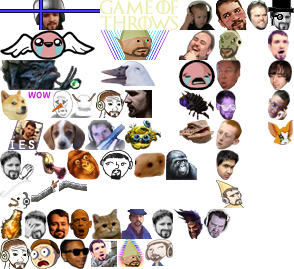
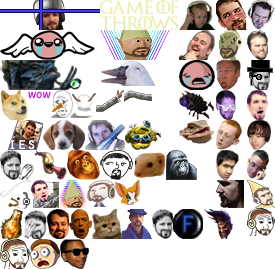
emotes: new F by Cracksi, non-final version

diff --git a/static/chat/css/style.min.css b/static/chat/css/style.min.css
@@ -1,1 +1,1 @@
-.nano{position:relative;width:100%;height:100%;overflow:hidden}.nano>.nano-content{position:absolute;overflow:scroll;overflow-x:hidden;top:0;right:0;bottom:0;left:0}.nano>.nano-content:focus{outline:thin dotted}.nano>.nano-content::-webkit-scrollbar{display:none}.has-scrollbar>.nano-content::-webkit-scrollbar{display:block}.nano>.nano-pane{background:rgba(0,0,0,0.25);position:absolute;width:10px;right:0;top:0;bottom:0;visibility:hidden\9;opacity:.01;-webkit-transition:.2s;-moz-transition:.2s;-o-transition:.2s;transition:.2s;-moz-border-radius:5px;-webkit-border-radius:5px;border-radius:5px}.nano>.nano-pane>.nano-slider{background:#444;background:rgba(0,0,0,0.5);position:relative;margin:0 1px;-moz-border-radius:3px;-webkit-border-radius:3px;border-radius:3px}.nano:hover>.nano-pane,.nano-pane.active,.nano-pane.flashed{visibility:visible\9;opacity:.99}.nano>.nano-pane>.nano-slider{background:#eee}.nano>.nano-pane{background:transparent;width:8px;right:4px}.serif{font-family:"Trebuchet MS",sans-serif}.chat{position:relative;width:100%;height:100%;min-width:300px}.chat-output-frame{margin-bottom:35px;height:auto;width:100%;position:absolute;overflow:hidden;top:0;bottom:0;left:0;right:0}.chat-output{width:100%;height:100%}.chat-output .chat-lines{-webkit-backface-visibility:hidden;-webkit-perspective:1000;outline:0 !important}.chat-lines>div{clear:both;word-wrap:break-word;padding:3px 20px 3px 5px}.chat-lines>div .continue{user-select:none;color:#444}.chat-lines>div i.continue{user-select:none;color:#222}.chat-lines a.user{font-weight:bold;cursor:pointer;font-family:"Trebuchet MS",sans-serif}.chat-lines hr{margin:8px 0}.chat-lines .msg.emote{font-style:italic}.chat-input{width:100%;position:absolute;bottom:0}#chat-top-frame{position:absolute;top:0;left:0;right:0}#chat-bottom-frame{position:absolute;bottom:35px;left:0;right:0}.chat-input>div{margin:5px 0 0 0;background:#2e2e2e}.chat-tools-wrap{position:absolute;right:0;bottom:0;margin:0;user-select:none;-moz-user-select:none;-webkit-user-select:none}.chat-input-wrap{margin:0;margin-right:60px}#user-mute-form,#user-ban-form{margin-top:10px;display:none}#user-mute-form #banTimeLength{width:150px}.chat-input-control{padding:3px 0 0 5px;height:28px;margin:1px;border-radius:3px}.chat-input-control .input{background:none;resize:none;margin:0;padding:0;width:100%;border:0;border-radius:0;box-shadow:none;box-sizing:border-box}.chat-input-control .input:focus{box-shadow:none}.chat-tools-wrap>div{height:30px;overflow:hidden}.chat-tools-wrap .iconbtn{font-size:20px;cursor:pointer;width:30px;height:28px;line-height:28px;float:left;display:block;text-align:center;color:#555;position:relative}.chat-tools-wrap .iconbtn:hover{color:white}.chat-tools-wrap .iconbtn.active{color:white}.chat-tools-wrap .chat-pm-count{font-family:"Lucida Console",Monaco,monospace;text-decoration:none;font-size:10px;color:white;background-color:#b91010;line-height:10px;padding:3px;position:absolute;border-radius:8px;top:-5px;left:0;display:block;text-shadow:1px 1px 0 black;text-align:center;box-shadow:1px 1px 0 rgba(0,0,0,0.1);min-width:15px}@-webkit-keyframes flash{0%,50%,100%{opacity:1}25%,75%{opacity:0}}@keyframes flash{0%,50%,100%{opacity:1}25%,75%{opacity:0}}.chat-pm-count.flash{-webkit-animation-name:flash;-webkit-animation-duration:1.5s;-webkit-animation-direction:alternate;-webkit-animation-timing-function:linear;-webkit-animation-delay:0s;-webkit-animation-iteration-count:infinite;-moz-animation-name:flash;-moz-animation-duration:1.5s;-moz-animation-direction:alternate;-moz-animation-timing-function:linear;-moz-animation-delay:0s;-moz-animation-iteration-count:infinite;animation-name:flash;animation-duration:1.5s;animation-iteration-count:infinite}.chat .chat-lines i[class^="icon-"]{width:16px;line-height:16px;height:16px;margin:0;opacity:1;display:inline-block;vertical-align:middle}.chat-input-control input,.chat-lines{font-family:Helvetica,"Trebuchet MS",Verdana,sans-serif;font-size:13px;line-height:1.5em}.chat-lines time{font-size:11px}.chat-lines a.externallink{color:#02c2ff}.chat-lines a.externallink:visited{color:#a66be5}.chat-lines a.externallink:hover,.chat-lines a.externallink:focus{color:#08c}.chat-lines a.nsfw-link{border-bottom:1px dashed red}.chat-lines a.nsfl-link{border-bottom:1px dashed #fff000}.chat .chat-lines time,.chat .user-msg i{display:none !important}.chat.chat-time .chat-lines time,.chat.chat-icons .user-msg i,.chat-lines i[class*='icon-subscriber']{display:inline-block !important}.chat-theme-dark{background:#080808;border-radius:0}.chat-theme-dark .chat-input-wrap{border:none}.chat-theme-dark .chat-lines time{color:#414141}.chat-theme-dark .chat-lines>div.highlight time,.chat-lines>div.highlight .continue{color:#838383}.chat-theme-dark .chat-lines>.command-msg,.chat-theme-dark .chat-lines>.error-msg,.chat-theme-dark .chat-lines>.status-msg,.chat-theme-dark .chat-lines>.ui-msg,.chat-theme-dark .chat-lines>.own-msg,.chat-theme-dark .chat-lines>.highlight{color:#dedede}.chat-theme-dark .chat-lines>.broadcast-msg .msg{color:#edea12}.chat-theme-dark .chat-lines>.broadcast-msg{background:rgba(255,255,21,0.1)}.chat-theme-dark .chat-lines>.own-msg{background-color:rgba(255,255,255,0.05)}.chat-theme-dark .chat-lines>.highlight{background-color:rgba(0,150,255,0.25)}.chat-theme-dark .chat-lines>.command-msg,.chat-theme-dark .chat-lines>.own-msg,.chat-theme-dark .chat-lines>.highlight .msg,.chat-theme-dark .chat-lines>.broadcast-msg .msg{text-shadow:1px 1px 0 rgba(0,0,0,0.5)}.chat-theme-dark .chat-input-control{background:#090909;border:none}.chat-theme-dark .chat-input-control input{color:#9e9e9e;background:#090909;text-shadow:none;outline:none}.chat-theme-dark .chat-lines>.private-message{background-color:#212121;margin:5px 15px 5px 10px;padding:10px;position:relative;border-radius:3px}.chat-theme-dark .chat-lines>.private-message .speech-arrow{top:15px;left:-5px;position:absolute;width:0;height:0;border-style:solid;border-width:5px 5px 5px 0;border-color:transparent #212121 transparent transparent}.chat-theme-dark .chat-lines>.private-message .message-actions{font-size:90%}.chat-theme-dark input:input-placeholder{color:#222}.chat-theme-dark input::-webkit-input-placeholder{color:#222}.chat-theme-dark input:-moz-placeholder{color:#222}.chat-theme-dark input::-moz-placeholder{color:#222}.chat-theme-dark input:-ms-input-placeholder{color:#222}.chat-theme-dark .nano>.pane{background:rgba(0,0,0,0.3);width:8px;right:5px;top:5px;bottom:0}.chat-theme-dark .nano>.pane>.slider{background:#999}.chat-theme-dark .nano>.pane>.slider:hover,.chat-theme-dark .nano>.pane.active>.slider{background:#eee}.chat.focus-user .chat-lines>.user-msg{opacity:.3}.chat.focus-user .chat-lines>.user-msg.focused,.chat.focus-user .chat-lines>.user-msg.highlight{opacity:1}.chat .alert{margin-bottom:0;padding-top:4px;padding-bottom:4px;font-size:12px}.hint-popup,.user-tools{width:100%;top:-5px;left:0}.hint-popup>div,.user-tools>div,#chat-broadcasts>div{border-radius:4px;margin:5px 20px 5px 5px}.user-tools .user-tools-user{font-family:"Trebuchet MS",sans-serif}#chat-broadcasts .chat-emote{display:none}.hint-popup>div{box-shadow:0 2px 6px rgba(0,0,0,0.9);padding:0}.hint-popup a:hover{cursor:pointer;color:#6aa7f9}.hint-popup .hidehint,.hint-popup .nexthint{top:0;position:relative;float:right;right:-23px;line-height:20px;-webkit-touch-callout:none;-webkit-user-select:none;-khtml-user-select:none;-moz-user-select:none;-ms-user-select:none;user-select:none;color:#ccc}.hint-popup .hidehint{right:-27px}.hint-popup .hidehint:hover,.hint-popup .nexthint:hover{color:#111}.hint-popup .alert{padding-right:35px}.user-tools-wrap{margin-left:-5px}.user-tools-wrap>a{margin:0 5px}.chat-menu,.user-tools,.hint-popup{display:none;opacity:0}.chat-menu.active,.user-tools.active,.hint-popup.active{display:block;opacity:1}.chat-menu,.user-tools,.hint-popup{font-size:12px}.chat-menu{position:absolute;right:20px;bottom:-5px;width:240px}.chat-menu.active{bottom:0}.chat-menu h5,.user-tools h5{text-shadow:-1px -1px 0 rgba(0,0,0,0.25);user-select:none;-moz-user-select:none;-webkit-user-select:none;background:#4f4f4f;background:linear-gradient(to bottom, #4f4f4f 0, #2e2e2e 100%);border-bottom:1px solid #121212;margin:0;line-height:20px;display:block;padding:5px 15px 5px 10px;border-radius:4px 4px 0 0}.chat-menu .toolbar{width:100%;position:absolute;top:-31px;left:0}.chat-menu li,.chat-menu label{font-size:12px}.chat-menu label{font-weight:normal;margin:0 0 5px 0}.chat-menu label:hover{color:white}.chat-menu .list-wrap,.chat-menu .list-wrap .scrollable{max-height:330px;font-size:.9em}.chat-menu .list-wrap,.user-tools>div{box-shadow:0 2px 6px rgba(0,0,0,0.9);border-radius:0 0 4px 4px;background:rgba(25,25,25,0.9);padding:0}.chat-menu .list-wrap{margin-top:auto}.chat-menu ul,.user-tools .tools{padding:0 10px;margin:10px 0}.chat-menu ul>li:first-child h5{margin-top:0}.chat-menu ul li{text-overflow:ellipsis;overflow:hidden}#chat-user-list ul li{line-height:18px}#chat-user-list h6:first-child{margin-top:10px}#chat-user-list h6{font-weight:bold;margin:0 0 5px 5px}#chat-user-list hr{margin:5px 0}#chat-user-list ul{margin:0}#chat-user-list .user{cursor:pointer;font-family:"Trebuchet MS",sans-serif}.user-tools a#unignoreuser,.user-tools.user-ignored a#ignoreuser{display:none}.user-tools.user-ignored a#unignoreuser{display:inline-block}.chat-menu .nano>.pane{width:8px;right:3px;top:3px;bottom:3px}#chat-private-messages{width:270px}#chat-private-messages #chat-pm-message{padding:15px}#chat-private-messages #chat-pm-message p{font-size:14px;text-align:center}.chat-login-msg{display:inline-block;width:100%;padding:0 0 0 5px;line-height:30px;color:rgba(255,255,255,0.5);text-shadow:-1px -1px 0 rgba(0,0,0,0.25)}.chat-lines .emotecount{color:white;text-shadow:1px 1px 0 rgba(0,0,0,0.9);font-size:10px;line-height:10px;border-radius:10px;padding:3px 6px;margin:0 0 0 5px;background:#191919}.chat-lines .emotecount{text-shadow:none;animation:emotecount 600ms 1;-moz-animation:emotecount 600ms 1;-webkit-animation:emotecount 600ms 1}@keyframes emotecount{from{color:black;background-color:white}to{color:white;background-color:#333}}@-webkit-keyframes emotecount{from{color:black;background-color:white}to{color:white;background-color:#333}}.chat-lines .emotecount.x5>span{font-size:12px}.chat-lines .emotecount.x10>span{font-size:16px}.chat-lines .emotecount.x20>span{font-size:25px;vertical-align:middle}.chat-lines .emotecount.x30>span{font-size:35px;vertical-align:middle}.chat-lines .emotecount.x50>span{font-size:40px;vertical-align:middle}.chat a.user{color:#cacaca}.chat a.user:hover{color:#fafafa}.chat a.subscriber{color:#488ce7}.chat a.subscriber:hover{color:#6aa7f9}.chat a.flair3{color:#0060ff;text-shadow:1px 1px 0 black}.chat a.flair3:hover{color:#6aa7f9}.chat a.flair8{color:#a427d6;text-shadow:1px 1px 0 black}.chat a.flair8:hover{color:#e564f4}.chat a.vip{color:#4db524}.chat a.vip:hover{color:#4db524}.chat a.bot{color:#e79015}.chat a.bot:hover{color:#e79015}.chat a.admin{color:#b91010}.chat a.admin:hover{color:#f00}.chat .greentext{color:#6ca528}@keyframes hop{0%{transform:translateY(0)}5%{transform:translateY(2px)}10%{transform:translateY(-13px)}50%{transform:translateY(-15px)}70%{transform:translateY(-13px)}80%{transform:translateY(-5px)}95%{transform:translateY(0)}100%{transform:translateY(0)}}.hop{animation:hop 700ms linear 5}.chat-emote{display:inline-block;position:relative;top:10px;margin:0 2px;overflow:hidden;text-indent:-90000px;vertical-align:middle}.chat-emote.chat-emote-OverRustle{animation:rustle 100ms 7;-webkit-animation:rustle 100ms 7}.chat-emote.chat-emote-OverRustle:hover{animation:rustle1 100ms infinite;-webkit-animation:rustle1 100ms infinite}@keyframes rustle{from{left:0}to{left:2px}}@-webkit-keyframes rustle{from{left:0}to{left:2px}}@keyframes rustle1{from{left:0}to{left:2px}}@-webkit-keyframes rustle1{from{left:0}to{left:2px}}.chat-emote.chat-emote-AYYYLMAO,.chat-emote.chat-emote-AngelThump,.chat-emote.chat-emote-Abathur,.chat-emote.chat-emote-GameOfThrows,.chat-emote.chat-emote-DANKMEMES,.chat-emote.chat-emote-DuckerZ,.chat-emote.chat-emote-SoDoge,.chat-emote.chat-emote-SoSad,.chat-emote.chat-emote-LIES,.chat-emote.chat-emote-FrankerZ,.chat-emote.chat-emote-SOTRIGGERED,.chat-emote.chat-emote-Heimerdonger,.chat-emote.chat-emote-FeedNathan,.chat-emote.chat-emote-LUL,.chat-emote.chat-emote-BibleThump,.chat-emote.chat-emote-INFESTINY,.chat-emote.chat-emote-Hhhehhehe,.chat-emote.chat-emote-Klappa,.chat-emote.chat-emote-SURPRISE,.chat-emote.chat-emote-OverRustle,.chat-emote.chat-emote-LeRuse,.chat-emote.chat-emote-FerretLOL,.chat-emote.chat-emote-NoTears,.chat-emote.chat-emote-MASTERB8,.chat-emote.chat-emote-DestiSenpaii,.chat-emote.chat-emote-YEE,.chat-emote.chat-emote-WhoahDude,.chat-emote.chat-emote-WORTH,.chat-emote.chat-emote-UWOTM8,.chat-emote.chat-emote-TooSpicy,.chat-emote.chat-emote-Sippy,.chat-emote.chat-emote-OhKrappa,.chat-emote.chat-emote-Nappa,.chat-emote.chat-emote-NOTMYTEMPO,.chat-emote.chat-emote-MotherFuckinGame,.chat-emote.chat-emote-MLADY,.chat-emote.chat-emote-Kappa,.chat-emote.chat-emote-Dravewin,.chat-emote.chat-emote-Disgustiny,.chat-emote.chat-emote-DatGeoff,.chat-emote.chat-emote-DappaKappa,.chat-emote.chat-emote-DaFeels,.chat-emote.chat-emote-DURRSTINY,.chat-emote.chat-emote-DAFUK,.chat-emote.chat-emote-CallChad,.chat-emote.chat-emote-CallCatz,.chat-emote.chat-emote-BasedGod,.chat-emote.chat-emote-nathanParty,.chat-emote.chat-emote-nathanFeels,.chat-emote.chat-emote-nathanFather,.chat-emote.chat-emote-nathanDubs3,.chat-emote.chat-emote-nathanDubs2,.chat-emote.chat-emote-nathanDubs1,.chat-emote.chat-emote-nathanDank,.chat-emote.chat-emote-nathanDad,.chat-emote.chat-emote-FIDGETLOL{background-image:url('../img/emoticons.png');background-repeat:no-repeat}.chat-emote.chat-emote-AYYYLMAO{background-position:0 0;width:100px;height:30px;margin-top:-30px}.chat-emote.chat-emote-AngelThump{background-position:0 -30px;width:95px;height:30px;margin-top:-30px}.chat-emote.chat-emote-Abathur{background-position:0 -60px;width:82px;height:30px;margin-top:-30px}.chat-emote.chat-emote-GameOfThrows{background-position:-100px 0;width:79px;height:30px;margin-top:-30px}.chat-emote.chat-emote-DANKMEMES{background-position:-100px -30px;width:70px;height:30px;margin-top:-30px}.chat-emote.chat-emote-DuckerZ{background-position:-100px -60px;width:56px;height:26px;margin-top:-26px}.chat-emote.chat-emote-SoDoge{background-position:0 -90px;width:51px;height:30px;margin-top:-30px}.chat-emote.chat-emote-SoSad{background-position:-51px -90px;width:45px;height:28px;margin-top:-28px}.chat-emote.chat-emote-LIES{background-position:0 -120px;width:43px;height:30px;margin-top:-30px}.chat-emote.chat-emote-FrankerZ{background-position:-43px -120px;width:42px;height:30px;margin-top:-30px}.chat-emote.chat-emote-SOTRIGGERED{background-position:-85px -120px;width:40px;height:30px;margin-top:-30px}.chat-emote.chat-emote-Heimerdonger{background-position:-125px -120px;width:37px;height:30px;margin-top:-30px}.chat-emote.chat-emote-FeedNathan{background-position:-179px 0;width:37px;height:30px;margin-top:-30px}.chat-emote.chat-emote-LUL{background-position:-179px -30px;width:36px;height:30px;margin-top:-30px}.chat-emote.chat-emote-BibleThump{background-position:-179px -60px;width:36px;height:30px;margin-top:-30px}.chat-emote.chat-emote-INFESTINY{background-position:-179px -90px;width:35px;height:30px;margin-top:-30px}.chat-emote.chat-emote-Hhhehhehe{background-position:-179px -120px;width:35px;height:24px;margin-top:-24px}.chat-emote.chat-emote-Klappa{background-position:0 -150px;width:34px;height:30px;margin-top:-30px}.chat-emote.chat-emote-SURPRISE{background-position:-34px -150px;width:33px;height:30px;margin-top:-30px}.chat-emote.chat-emote-OverRustle{background-position:-67px -150px;width:33px;height:30px;margin-top:-30px}.chat-emote.chat-emote-LeRuse{background-position:-100px -150px;width:33px;height:30px;margin-top:-30px}.chat-emote.chat-emote-FerretLOL{background-position:-133px -150px;width:33px;height:30px;margin-top:-30px}.chat-emote.chat-emote-NoTears{background-position:-166px -150px;width:31px;height:30px;margin-top:-30px}.chat-emote.chat-emote-MASTERB8{background-position:0 -180px;width:31px;height:29px;margin-top:-29px}.chat-emote.chat-emote-DestiSenpaii{background-position:-216px 0;width:31px;height:30px;margin-top:-30px}.chat-emote.chat-emote-YEE{background-position:-216px -30px;width:27px;height:30px;margin-top:-30px}.chat-emote.chat-emote-WhoahDude{background-position:-216px -60px;width:25px;height:30px;margin-top:-30px}.chat-emote.chat-emote-WORTH{background-position:-216px -90px;width:20px;height:30px;margin-top:-30px}.chat-emote.chat-emote-UWOTM8{background-position:-216px -120px;width:26px;height:30px;margin-top:-30px}.chat-emote.chat-emote-TooSpicy{background-position:-216px -150px;width:23px;height:30px;margin-top:-30px}.chat-emote.chat-emote-Sippy{background-position:0 -209px;width:24px;height:30px;margin-top:-30px}.chat-emote.chat-emote-OhKrappa{background-position:-24px -209px;width:23px;height:30px;margin-top:-30px}.chat-emote.chat-emote-Nappa{background-position:-47px -209px;width:22px;height:30px;margin-top:-30px}.chat-emote.chat-emote-NOTMYTEMPO{background-position:-69px -209px;width:23px;height:30px;margin-top:-30px}.chat-emote.chat-emote-MotherFuckinGame{background-position:-92px -209px;width:30px;height:30px;margin-top:-30px}.chat-emote.chat-emote-MLADY{background-position:-122px -209px;width:30px;height:30px;margin-top:-30px}.chat-emote.chat-emote-Kappa{background-position:-152px -209px;width:21px;height:30px;margin-top:-30px}.chat-emote.chat-emote-Dravewin{background-position:-173px -209px;width:30px;height:30px;margin-top:-30px}.chat-emote.chat-emote-Disgustiny{background-position:-203px -209px;width:28px;height:30px;margin-top:-30px}.chat-emote.chat-emote-DatGeoff{background-position:-247px 0;width:21px;height:30px;margin-top:-30px}.chat-emote.chat-emote-DappaKappa{background-position:-268px 0;width:26px;height:30px;margin-top:-30px}.chat-emote.chat-emote-DaFeels{background-position:0 -239px;width:30px;height:30px;margin-top:-30px}.chat-emote.chat-emote-DURRSTINY{background-position:-268px -30px;width:21px;height:30px;margin-top:-30px}.chat-emote.chat-emote-DAFUK{background-position:-30px -239px;width:30px;height:30px;margin-top:-30px}.chat-emote.chat-emote-CallChad{background-position:-268px -60px;width:24px;height:30px;margin-top:-30px}.chat-emote.chat-emote-CallCatz{background-position:-268px -90px;width:22px;height:30px;margin-top:-30px}.chat-emote.chat-emote-BasedGod{background-position:-60px -239px;width:29px;height:30px;margin-top:-30px}.chat-emote.chat-emote-nathanParty{background-position:-216px -180px;width:28px;height:28px;margin-top:-28px}.chat-emote.chat-emote-nathanFeels{background-position:-96px -90px;width:28px;height:28px;margin-top:-28px}.chat-emote.chat-emote-nathanFather{background-position:-124px -90px;width:28px;height:28px;margin-top:-28px}.chat-emote.chat-emote-nathanDubs3{background-position:-31px -180px;width:28px;height:22px;margin-top:-22px}.chat-emote.chat-emote-nathanDubs2{background-position:-59px -180px;width:28px;height:12px;margin-top:-12px}.chat-emote.chat-emote-nathanDubs1{background-position:-89px -239px;width:28px;height:28px;margin-top:-28px}.chat-emote.chat-emote-nathanDank{background-position:-117px -239px;width:28px;height:28px;margin-top:-28px}.chat-emote.chat-emote-nathanDad{background-position:-145px -239px;width:28px;height:27px;margin-top:-27px}.chat-emote.chat-emote-FIDGETLOL{background-position:-268px -120px;width:25px;height:25px;margin-top:-25px}.icon-subscriber,.icon-subscribert2,.icon-subscribert3,.icon-subscribert4{-webkit-transform:rotate(0deg);-webkit-transition:rotate .2s ease-in-out;-moz-transition:rotate .2s ease-in-out;-o-transition:rotate .2s ease-in-out;transition:rotate .2s ease-in-out}.icon-subscriber:hover,.icon-subscribert2:hover,.icon-subscribert3:hover,.icon-subscribert4:hover{-moz-animation:spin 3s infinite linear;-webkit-animation:spin 3s infinite linear}.icon-vip:hover,.icon-vip,.icon-trusted,.icon-subscribert4,.icon-subscribert3,.icon-subscribert2,.icon-subscriber,.icon-status,.icon-notable,.icon-moderator,.icon-mail,.icon-mail-send,.icon-mail-receive,.icon-mail-open-document,.icon-info,.icon-evenotable,.icon-error,.icon-contributor,.icon-compchallenge:hover,.icon-compchallenge,.icon-command,.icon-bot:hover,.icon-bot,.icon-admin:hover,.icon-admin{background-image:url('../img/icons.png');background-repeat:no-repeat}.icon-vip:hover{background-position:0 0;width:16px;height:16px}.icon-vip{background-position:-16px 0;width:16px;height:16px}.icon-trusted{background-position:0 -16px;width:16px;height:16px}.icon-subscribert4{background-position:-16px -16px;width:16px;height:16px}.icon-subscribert3{background-position:-32px 0;width:16px;height:16px}.icon-subscribert2{background-position:-32px -16px;width:16px;height:16px}.icon-subscriber{background-position:0 -32px;width:16px;height:16px}.icon-status{background-position:-16px -32px;width:16px;height:16px}.icon-notable{background-position:-32px -32px;width:16px;height:16px}.icon-moderator{background-position:-48px 0;width:16px;height:16px}.icon-mail{background-position:-48px -16px;width:16px;height:16px}.icon-mail-send{background-position:-48px -32px;width:16px;height:16px}.icon-mail-receive{background-position:0 -48px;width:16px;height:16px}.icon-mail-open-document{background-position:-16px -48px;width:16px;height:16px}.icon-info{background-position:-32px -48px;width:16px;height:16px}.icon-evenotable{background-position:-48px -48px;width:16px;height:16px}.icon-error{background-position:-64px 0;width:16px;height:16px}.icon-contributor{background-position:-64px -16px;width:16px;height:16px}.icon-compchallenge:hover{background-position:-64px -32px;width:16px;height:16px}.icon-compchallenge{background-position:-64px -48px;width:16px;height:16px}.icon-command{background-position:0 -64px;width:16px;height:16px}.icon-bot:hover{background-position:-16px -64px;width:16px;height:16px}.icon-bot{background-position:-32px -64px;width:16px;height:16px}.icon-admin:hover{background-position:-48px -64px;width:16px;height:16px}.icon-admin{background-position:-64px -64px;width:16px;height:16px}
+.nano{position:relative;width:100%;height:100%;overflow:hidden}.nano>.nano-content{position:absolute;overflow:scroll;overflow-x:hidden;top:0;right:0;bottom:0;left:0}.nano>.nano-content:focus{outline:thin dotted}.nano>.nano-content::-webkit-scrollbar{display:none}.has-scrollbar>.nano-content::-webkit-scrollbar{display:block}.nano>.nano-pane{background:rgba(0,0,0,0.25);position:absolute;width:10px;right:0;top:0;bottom:0;visibility:hidden\9;opacity:.01;-webkit-transition:.2s;-moz-transition:.2s;-o-transition:.2s;transition:.2s;-moz-border-radius:5px;-webkit-border-radius:5px;border-radius:5px}.nano>.nano-pane>.nano-slider{background:#444;background:rgba(0,0,0,0.5);position:relative;margin:0 1px;-moz-border-radius:3px;-webkit-border-radius:3px;border-radius:3px}.nano:hover>.nano-pane,.nano-pane.active,.nano-pane.flashed{visibility:visible\9;opacity:.99}.nano>.nano-pane>.nano-slider{background:#eee}.nano>.nano-pane{background:transparent;width:8px;right:4px}.serif{font-family:"Trebuchet MS",sans-serif}.chat{position:relative;width:100%;height:100%;min-width:300px}.chat-output-frame{margin-bottom:35px;height:auto;width:100%;position:absolute;overflow:hidden;top:0;bottom:0;left:0;right:0}.chat-output{width:100%;height:100%}.chat-output .chat-lines{-webkit-backface-visibility:hidden;-webkit-perspective:1000;outline:0 !important}.chat-lines>div{clear:both;word-wrap:break-word;padding:3px 20px 3px 5px}.chat-lines>div .continue{user-select:none;color:#444}.chat-lines>div i.continue{user-select:none;color:#222}.chat-lines a.user{font-weight:bold;cursor:pointer;font-family:"Trebuchet MS",sans-serif}.chat-lines hr{margin:8px 0}.chat-lines .msg.emote{font-style:italic}.chat-input{width:100%;position:absolute;bottom:0}#chat-top-frame{position:absolute;top:0;left:0;right:0}#chat-bottom-frame{position:absolute;bottom:35px;left:0;right:0}.chat-input>div{margin:5px 0 0 0;background:#2e2e2e}.chat-tools-wrap{position:absolute;right:0;bottom:0;margin:0;user-select:none;-moz-user-select:none;-webkit-user-select:none}.chat-input-wrap{margin:0;margin-right:60px}#user-mute-form,#user-ban-form{margin-top:10px;display:none}#user-mute-form #banTimeLength{width:150px}.chat-input-control{padding:3px 0 0 5px;height:28px;margin:1px;border-radius:3px}.chat-input-control .input{background:none;resize:none;margin:0;padding:0;width:100%;border:0;border-radius:0;box-shadow:none;box-sizing:border-box}.chat-input-control .input:focus{box-shadow:none}.chat-tools-wrap>div{height:30px;overflow:hidden}.chat-tools-wrap .iconbtn{font-size:20px;cursor:pointer;width:30px;height:28px;line-height:28px;float:left;display:block;text-align:center;color:#555;position:relative}.chat-tools-wrap .iconbtn:hover{color:white}.chat-tools-wrap .iconbtn.active{color:white}.chat-tools-wrap .chat-pm-count{font-family:"Lucida Console",Monaco,monospace;text-decoration:none;font-size:10px;color:white;background-color:#b91010;line-height:10px;padding:3px;position:absolute;border-radius:8px;top:-5px;left:0;display:block;text-shadow:1px 1px 0 black;text-align:center;box-shadow:1px 1px 0 rgba(0,0,0,0.1);min-width:15px}@-webkit-keyframes flash{0%,50%,100%{opacity:1}25%,75%{opacity:0}}@keyframes flash{0%,50%,100%{opacity:1}25%,75%{opacity:0}}.chat-pm-count.flash{-webkit-animation-name:flash;-webkit-animation-duration:1.5s;-webkit-animation-direction:alternate;-webkit-animation-timing-function:linear;-webkit-animation-delay:0s;-webkit-animation-iteration-count:infinite;-moz-animation-name:flash;-moz-animation-duration:1.5s;-moz-animation-direction:alternate;-moz-animation-timing-function:linear;-moz-animation-delay:0s;-moz-animation-iteration-count:infinite;animation-name:flash;animation-duration:1.5s;animation-iteration-count:infinite}.chat .chat-lines i[class^="icon-"]{width:16px;line-height:16px;height:16px;margin:0;opacity:1;display:inline-block;vertical-align:middle}.chat-input-control input,.chat-lines{font-family:Helvetica,"Trebuchet MS",Verdana,sans-serif;font-size:13px;line-height:1.5em}.chat-lines time{font-size:11px}.chat-lines a.externallink{color:#02c2ff}.chat-lines a.externallink:visited{color:#a66be5}.chat-lines a.externallink:hover,.chat-lines a.externallink:focus{color:#08c}.chat-lines a.nsfw-link{border-bottom:1px dashed red}.chat-lines a.nsfl-link{border-bottom:1px dashed #fff000}.chat .chat-lines time,.chat .user-msg i{display:none !important}.chat.chat-time .chat-lines time,.chat.chat-icons .user-msg i,.chat-lines i[class*='icon-subscriber']{display:inline-block !important}.chat-theme-dark{background:#080808;border-radius:0}.chat-theme-dark .chat-input-wrap{border:none}.chat-theme-dark .chat-lines time{color:#414141}.chat-theme-dark .chat-lines>div.highlight time,.chat-lines>div.highlight .continue{color:#838383}.chat-theme-dark .chat-lines>.command-msg,.chat-theme-dark .chat-lines>.error-msg,.chat-theme-dark .chat-lines>.status-msg,.chat-theme-dark .chat-lines>.ui-msg,.chat-theme-dark .chat-lines>.own-msg,.chat-theme-dark .chat-lines>.highlight{color:#dedede}.chat-theme-dark .chat-lines>.broadcast-msg .msg{color:#edea12}.chat-theme-dark .chat-lines>.broadcast-msg{background:rgba(255,255,21,0.1)}.chat-theme-dark .chat-lines>.own-msg{background-color:rgba(255,255,255,0.05)}.chat-theme-dark .chat-lines>.highlight{background-color:rgba(0,150,255,0.25)}.chat-theme-dark .chat-lines>.command-msg,.chat-theme-dark .chat-lines>.own-msg,.chat-theme-dark .chat-lines>.highlight .msg,.chat-theme-dark .chat-lines>.broadcast-msg .msg{text-shadow:1px 1px 0 rgba(0,0,0,0.5)}.chat-theme-dark .chat-input-control{background:#090909;border:none}.chat-theme-dark .chat-input-control input{color:#9e9e9e;background:#090909;text-shadow:none;outline:none}.chat-theme-dark .chat-lines>.private-message{background-color:#212121;margin:5px 15px 5px 10px;padding:10px;position:relative;border-radius:3px}.chat-theme-dark .chat-lines>.private-message .speech-arrow{top:15px;left:-5px;position:absolute;width:0;height:0;border-style:solid;border-width:5px 5px 5px 0;border-color:transparent #212121 transparent transparent}.chat-theme-dark .chat-lines>.private-message .message-actions{font-size:90%}.chat-theme-dark input:input-placeholder{color:#222}.chat-theme-dark input::-webkit-input-placeholder{color:#222}.chat-theme-dark input:-moz-placeholder{color:#222}.chat-theme-dark input::-moz-placeholder{color:#222}.chat-theme-dark input:-ms-input-placeholder{color:#222}.chat-theme-dark .nano>.pane{background:rgba(0,0,0,0.3);width:8px;right:5px;top:5px;bottom:0}.chat-theme-dark .nano>.pane>.slider{background:#999}.chat-theme-dark .nano>.pane>.slider:hover,.chat-theme-dark .nano>.pane.active>.slider{background:#eee}.chat.focus-user .chat-lines>.user-msg{opacity:.3}.chat.focus-user .chat-lines>.user-msg.focused,.chat.focus-user .chat-lines>.user-msg.highlight{opacity:1}.chat .alert{margin-bottom:0;padding-top:4px;padding-bottom:4px;font-size:12px}.hint-popup,.user-tools{width:100%;top:-5px;left:0}.hint-popup>div,.user-tools>div,#chat-broadcasts>div{border-radius:4px;margin:5px 20px 5px 5px}.user-tools .user-tools-user{font-family:"Trebuchet MS",sans-serif}#chat-broadcasts .chat-emote{display:none}.hint-popup>div{box-shadow:0 2px 6px rgba(0,0,0,0.9);padding:0}.hint-popup a:hover{cursor:pointer;color:#6aa7f9}.hint-popup .hidehint,.hint-popup .nexthint{top:0;position:relative;float:right;right:-23px;line-height:20px;-webkit-touch-callout:none;-webkit-user-select:none;-khtml-user-select:none;-moz-user-select:none;-ms-user-select:none;user-select:none;color:#ccc}.hint-popup .hidehint{right:-27px}.hint-popup .hidehint:hover,.hint-popup .nexthint:hover{color:#111}.hint-popup .alert{padding-right:35px}.user-tools-wrap{margin-left:-5px}.user-tools-wrap>a{margin:0 5px}.chat-menu,.user-tools,.hint-popup{display:none;opacity:0}.chat-menu.active,.user-tools.active,.hint-popup.active{display:block;opacity:1}.chat-menu,.user-tools,.hint-popup{font-size:12px}.chat-menu{position:absolute;right:20px;bottom:-5px;width:240px}.chat-menu.active{bottom:0}.chat-menu h5,.user-tools h5{text-shadow:-1px -1px 0 rgba(0,0,0,0.25);user-select:none;-moz-user-select:none;-webkit-user-select:none;background:#4f4f4f;background:linear-gradient(to bottom, #4f4f4f 0, #2e2e2e 100%);border-bottom:1px solid #121212;margin:0;line-height:20px;display:block;padding:5px 15px 5px 10px;border-radius:4px 4px 0 0}.chat-menu .toolbar{width:100%;position:absolute;top:-31px;left:0}.chat-menu li,.chat-menu label{font-size:12px}.chat-menu label{font-weight:normal;margin:0 0 5px 0}.chat-menu label:hover{color:white}.chat-menu .list-wrap,.chat-menu .list-wrap .scrollable{max-height:330px;font-size:.9em}.chat-menu .list-wrap,.user-tools>div{box-shadow:0 2px 6px rgba(0,0,0,0.9);border-radius:0 0 4px 4px;background:rgba(25,25,25,0.9);padding:0}.chat-menu .list-wrap{margin-top:auto}.chat-menu ul,.user-tools .tools{padding:0 10px;margin:10px 0}.chat-menu ul>li:first-child h5{margin-top:0}.chat-menu ul li{text-overflow:ellipsis;overflow:hidden}#chat-user-list ul li{line-height:18px}#chat-user-list h6:first-child{margin-top:10px}#chat-user-list h6{font-weight:bold;margin:0 0 5px 5px}#chat-user-list hr{margin:5px 0}#chat-user-list ul{margin:0}#chat-user-list .user{cursor:pointer;font-family:"Trebuchet MS",sans-serif}.user-tools a#unignoreuser,.user-tools.user-ignored a#ignoreuser{display:none}.user-tools.user-ignored a#unignoreuser{display:inline-block}.chat-menu .nano>.pane{width:8px;right:3px;top:3px;bottom:3px}#chat-private-messages{width:270px}#chat-private-messages #chat-pm-message{padding:15px}#chat-private-messages #chat-pm-message p{font-size:14px;text-align:center}.chat-login-msg{display:inline-block;width:100%;padding:0 0 0 5px;line-height:30px;color:rgba(255,255,255,0.5);text-shadow:-1px -1px 0 rgba(0,0,0,0.25)}.chat-lines .emotecount{color:white;text-shadow:1px 1px 0 rgba(0,0,0,0.9);font-size:10px;line-height:10px;border-radius:10px;padding:3px 6px;margin:0 0 0 5px;background:#191919}.chat-lines .emotecount{text-shadow:none;animation:emotecount 600ms 1;-moz-animation:emotecount 600ms 1;-webkit-animation:emotecount 600ms 1}@keyframes emotecount{from{color:black;background-color:white}to{color:white;background-color:#333}}@-webkit-keyframes emotecount{from{color:black;background-color:white}to{color:white;background-color:#333}}.chat-lines .emotecount.x5>span{font-size:12px}.chat-lines .emotecount.x10>span{font-size:16px}.chat-lines .emotecount.x20>span{font-size:25px;vertical-align:middle}.chat-lines .emotecount.x30>span{font-size:35px;vertical-align:middle}.chat-lines .emotecount.x50>span{font-size:40px;vertical-align:middle}.chat a.user{color:#cacaca}.chat a.user:hover{color:#fafafa}.chat a.subscriber{color:#488ce7}.chat a.subscriber:hover{color:#6aa7f9}.chat a.flair3{color:#0060ff;text-shadow:1px 1px 0 black}.chat a.flair3:hover{color:#6aa7f9}.chat a.flair8{color:#a427d6;text-shadow:1px 1px 0 black}.chat a.flair8:hover{color:#e564f4}.chat a.vip{color:#4db524}.chat a.vip:hover{color:#4db524}.chat a.bot{color:#e79015}.chat a.bot:hover{color:#e79015}.chat a.admin{color:#b91010}.chat a.admin:hover{color:#f00}.chat .greentext{color:#6ca528}@keyframes hop{0%{transform:translateY(0)}5%{transform:translateY(2px)}10%{transform:translateY(-13px)}50%{transform:translateY(-15px)}70%{transform:translateY(-13px)}80%{transform:translateY(-5px)}95%{transform:translateY(0)}100%{transform:translateY(0)}}.hop{animation:hop 700ms linear 5}.chat-emote{display:inline-block;position:relative;top:10px;margin:0 2px;overflow:hidden;text-indent:-90000px;vertical-align:middle}.chat-emote.chat-emote-OverRustle{animation:rustle 100ms 7;-webkit-animation:rustle 100ms 7}.chat-emote.chat-emote-OverRustle:hover{animation:rustle1 100ms infinite;-webkit-animation:rustle1 100ms infinite}@keyframes rustle{from{left:0}to{left:2px}}@-webkit-keyframes rustle{from{left:0}to{left:2px}}@keyframes rustle1{from{left:0}to{left:2px}}@-webkit-keyframes rustle1{from{left:0}to{left:2px}}.chat-emote.chat-emote-AYYYLMAO,.chat-emote.chat-emote-AngelThump,.chat-emote.chat-emote-Abathur,.chat-emote.chat-emote-GameOfThrows,.chat-emote.chat-emote-DANKMEMES,.chat-emote.chat-emote-DuckerZ,.chat-emote.chat-emote-SoDoge,.chat-emote.chat-emote-SoSad,.chat-emote.chat-emote-LIES,.chat-emote.chat-emote-FrankerZ,.chat-emote.chat-emote-SOTRIGGERED,.chat-emote.chat-emote-Heimerdonger,.chat-emote.chat-emote-FeedNathan,.chat-emote.chat-emote-LUL,.chat-emote.chat-emote-BibleThump,.chat-emote.chat-emote-INFESTINY,.chat-emote.chat-emote-Hhhehhehe,.chat-emote.chat-emote-Klappa,.chat-emote.chat-emote-SURPRISE,.chat-emote.chat-emote-OverRustle,.chat-emote.chat-emote-LeRuse,.chat-emote.chat-emote-FerretLOL,.chat-emote.chat-emote-NoTears,.chat-emote.chat-emote-MASTERB8,.chat-emote.chat-emote-DestiSenpaii,.chat-emote.chat-emote-YEE,.chat-emote.chat-emote-WhoahDude,.chat-emote.chat-emote-WORTH,.chat-emote.chat-emote-UWOTM8,.chat-emote.chat-emote-TooSpicy,.chat-emote.chat-emote-Sippy,.chat-emote.chat-emote-OhKrappa,.chat-emote.chat-emote-Nappa,.chat-emote.chat-emote-NOTMYTEMPO,.chat-emote.chat-emote-MotherFuckinGame,.chat-emote.chat-emote-MLADY,.chat-emote.chat-emote-Kappa,.chat-emote.chat-emote-F,.chat-emote.chat-emote-Dravewin,.chat-emote.chat-emote-Disgustiny,.chat-emote.chat-emote-DatGeoff,.chat-emote.chat-emote-DappaKappa,.chat-emote.chat-emote-DaFeels,.chat-emote.chat-emote-DURRSTINY,.chat-emote.chat-emote-DAFUK,.chat-emote.chat-emote-CallChad,.chat-emote.chat-emote-CallCatz,.chat-emote.chat-emote-BasedGod,.chat-emote.chat-emote-nathanParty,.chat-emote.chat-emote-nathanFeels,.chat-emote.chat-emote-nathanFather,.chat-emote.chat-emote-nathanDubs3,.chat-emote.chat-emote-nathanDubs2,.chat-emote.chat-emote-nathanDubs1,.chat-emote.chat-emote-nathanDank,.chat-emote.chat-emote-nathanDad,.chat-emote.chat-emote-FIDGETLOL{background-image:url('../img/emoticons.png');background-repeat:no-repeat}.chat-emote.chat-emote-AYYYLMAO{background-position:0 0;width:100px;height:30px;margin-top:-30px}.chat-emote.chat-emote-AngelThump{background-position:0 -30px;width:95px;height:30px;margin-top:-30px}.chat-emote.chat-emote-Abathur{background-position:0 -60px;width:82px;height:30px;margin-top:-30px}.chat-emote.chat-emote-GameOfThrows{background-position:-100px 0;width:79px;height:30px;margin-top:-30px}.chat-emote.chat-emote-DANKMEMES{background-position:-100px -30px;width:70px;height:30px;margin-top:-30px}.chat-emote.chat-emote-DuckerZ{background-position:-100px -60px;width:56px;height:26px;margin-top:-26px}.chat-emote.chat-emote-SoDoge{background-position:0 -90px;width:51px;height:30px;margin-top:-30px}.chat-emote.chat-emote-SoSad{background-position:-51px -90px;width:45px;height:28px;margin-top:-28px}.chat-emote.chat-emote-LIES{background-position:0 -120px;width:43px;height:30px;margin-top:-30px}.chat-emote.chat-emote-FrankerZ{background-position:-43px -120px;width:42px;height:30px;margin-top:-30px}.chat-emote.chat-emote-SOTRIGGERED{background-position:-85px -120px;width:40px;height:30px;margin-top:-30px}.chat-emote.chat-emote-Heimerdonger{background-position:-125px -120px;width:37px;height:30px;margin-top:-30px}.chat-emote.chat-emote-FeedNathan{background-position:-179px 0;width:37px;height:30px;margin-top:-30px}.chat-emote.chat-emote-LUL{background-position:-179px -30px;width:36px;height:30px;margin-top:-30px}.chat-emote.chat-emote-BibleThump{background-position:-179px -60px;width:36px;height:30px;margin-top:-30px}.chat-emote.chat-emote-INFESTINY{background-position:-179px -90px;width:35px;height:30px;margin-top:-30px}.chat-emote.chat-emote-Hhhehhehe{background-position:-179px -120px;width:35px;height:24px;margin-top:-24px}.chat-emote.chat-emote-Klappa{background-position:0 -150px;width:34px;height:30px;margin-top:-30px}.chat-emote.chat-emote-SURPRISE{background-position:-34px -150px;width:33px;height:30px;margin-top:-30px}.chat-emote.chat-emote-OverRustle{background-position:-67px -150px;width:33px;height:30px;margin-top:-30px}.chat-emote.chat-emote-LeRuse{background-position:-100px -150px;width:33px;height:30px;margin-top:-30px}.chat-emote.chat-emote-FerretLOL{background-position:-133px -150px;width:33px;height:30px;margin-top:-30px}.chat-emote.chat-emote-NoTears{background-position:-166px -150px;width:31px;height:30px;margin-top:-30px}.chat-emote.chat-emote-MASTERB8{background-position:0 -180px;width:31px;height:29px;margin-top:-29px}.chat-emote.chat-emote-DestiSenpaii{background-position:-216px 0;width:31px;height:30px;margin-top:-30px}.chat-emote.chat-emote-YEE{background-position:-216px -30px;width:27px;height:30px;margin-top:-30px}.chat-emote.chat-emote-WhoahDude{background-position:-216px -60px;width:25px;height:30px;margin-top:-30px}.chat-emote.chat-emote-WORTH{background-position:-216px -90px;width:20px;height:30px;margin-top:-30px}.chat-emote.chat-emote-UWOTM8{background-position:-216px -120px;width:26px;height:30px;margin-top:-30px}.chat-emote.chat-emote-TooSpicy{background-position:-216px -150px;width:23px;height:30px;margin-top:-30px}.chat-emote.chat-emote-Sippy{background-position:0 -209px;width:24px;height:30px;margin-top:-30px}.chat-emote.chat-emote-OhKrappa{background-position:-24px -209px;width:23px;height:30px;margin-top:-30px}.chat-emote.chat-emote-Nappa{background-position:-47px -209px;width:22px;height:30px;margin-top:-30px}.chat-emote.chat-emote-NOTMYTEMPO{background-position:-69px -209px;width:23px;height:30px;margin-top:-30px}.chat-emote.chat-emote-MotherFuckinGame{background-position:-92px -209px;width:30px;height:30px;margin-top:-30px}.chat-emote.chat-emote-MLADY{background-position:-122px -209px;width:30px;height:30px;margin-top:-30px}.chat-emote.chat-emote-Kappa{background-position:-152px -209px;width:21px;height:30px;margin-top:-30px}.chat-emote.chat-emote-F{background-position:-173px -209px;width:30px;height:30px;margin-top:-30px}.chat-emote.chat-emote-Dravewin{background-position:-203px -209px;width:30px;height:30px;margin-top:-30px}.chat-emote.chat-emote-Disgustiny{background-position:-247px 0;width:28px;height:30px;margin-top:-30px}.chat-emote.chat-emote-DatGeoff{background-position:-247px -30px;width:21px;height:30px;margin-top:-30px}.chat-emote.chat-emote-DappaKappa{background-position:-247px -60px;width:26px;height:30px;margin-top:-30px}.chat-emote.chat-emote-DaFeels{background-position:0 -239px;width:30px;height:30px;margin-top:-30px}.chat-emote.chat-emote-DURRSTINY{background-position:-247px -90px;width:21px;height:30px;margin-top:-30px}.chat-emote.chat-emote-DAFUK{background-position:-30px -239px;width:30px;height:30px;margin-top:-30px}.chat-emote.chat-emote-CallChad{background-position:-247px -120px;width:24px;height:30px;margin-top:-30px}.chat-emote.chat-emote-CallCatz{background-position:-247px -150px;width:22px;height:30px;margin-top:-30px}.chat-emote.chat-emote-BasedGod{background-position:-60px -239px;width:29px;height:30px;margin-top:-30px}.chat-emote.chat-emote-nathanParty{background-position:-247px -180px;width:28px;height:28px;margin-top:-28px}.chat-emote.chat-emote-nathanFeels{background-position:-247px -208px;width:28px;height:28px;margin-top:-28px}.chat-emote.chat-emote-nathanFather{background-position:-216px -180px;width:28px;height:28px;margin-top:-28px}.chat-emote.chat-emote-nathanDubs3{background-position:-96px -90px;width:28px;height:22px;margin-top:-22px}.chat-emote.chat-emote-nathanDubs2{background-position:-124px -90px;width:28px;height:12px;margin-top:-12px}.chat-emote.chat-emote-nathanDubs1{background-position:-31px -180px;width:28px;height:28px;margin-top:-28px}.chat-emote.chat-emote-nathanDank{background-position:-59px -180px;width:28px;height:28px;margin-top:-28px}.chat-emote.chat-emote-nathanDad{background-position:-87px -180px;width:28px;height:27px;margin-top:-27px}.chat-emote.chat-emote-FIDGETLOL{background-position:-115px -180px;width:25px;height:25px;margin-top:-25px}.icon-subscriber,.icon-subscribert2,.icon-subscribert3,.icon-subscribert4{-webkit-transform:rotate(0deg);-webkit-transition:rotate .2s ease-in-out;-moz-transition:rotate .2s ease-in-out;-o-transition:rotate .2s ease-in-out;transition:rotate .2s ease-in-out}.icon-subscriber:hover,.icon-subscribert2:hover,.icon-subscribert3:hover,.icon-subscribert4:hover{-moz-animation:spin 3s infinite linear;-webkit-animation:spin 3s infinite linear}.icon-vip:hover,.icon-vip,.icon-trusted,.icon-subscribert4,.icon-subscribert3,.icon-subscribert2,.icon-subscriber,.icon-status,.icon-notable,.icon-moderator,.icon-mail,.icon-mail-send,.icon-mail-receive,.icon-mail-open-document,.icon-info,.icon-evenotable,.icon-error,.icon-contributor,.icon-compchallenge:hover,.icon-compchallenge,.icon-command,.icon-bot:hover,.icon-bot,.icon-admin:hover,.icon-admin{background-image:url('../img/icons.png');background-repeat:no-repeat}.icon-vip:hover{background-position:0 0;width:16px;height:16px}.icon-vip{background-position:-16px 0;width:16px;height:16px}.icon-trusted{background-position:0 -16px;width:16px;height:16px}.icon-subscribert4{background-position:-16px -16px;width:16px;height:16px}.icon-subscribert3{background-position:-32px 0;width:16px;height:16px}.icon-subscribert2{background-position:-32px -16px;width:16px;height:16px}.icon-subscriber{background-position:0 -32px;width:16px;height:16px}.icon-status{background-position:-16px -32px;width:16px;height:16px}.icon-notable{background-position:-32px -32px;width:16px;height:16px}.icon-moderator{background-position:-48px 0;width:16px;height:16px}.icon-mail{background-position:-48px -16px;width:16px;height:16px}.icon-mail-send{background-position:-48px -32px;width:16px;height:16px}.icon-mail-receive{background-position:0 -48px;width:16px;height:16px}.icon-mail-open-document{background-position:-16px -48px;width:16px;height:16px}.icon-info{background-position:-32px -48px;width:16px;height:16px}.icon-evenotable{background-position:-48px -48px;width:16px;height:16px}.icon-error{background-position:-64px 0;width:16px;height:16px}.icon-contributor{background-position:-64px -16px;width:16px;height:16px}.icon-compchallenge:hover{background-position:-64px -32px;width:16px;height:16px}.icon-compchallenge{background-position:-64px -48px;width:16px;height:16px}.icon-command{background-position:0 -64px;width:16px;height:16px}.icon-bot:hover{background-position:-16px -64px;width:16px;height:16px}.icon-bot{background-position:-32px -64px;width:16px;height:16px}.icon-admin:hover{background-position:-48px -64px;width:16px;height:16px}.icon-admin{background-position:-64px -64px;width:16px;height:16px}

diff --git a/config/config.php b/config/config.php
@@ -60,6 +60,7 @@ return array (
 			'LIES',
 			'LeRuse',
 			'YEE',
+			'F',
 		),
 		'twitchemotes' => array(
 			'nathanDad',
